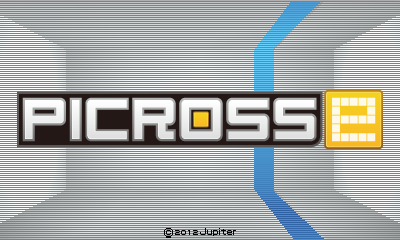
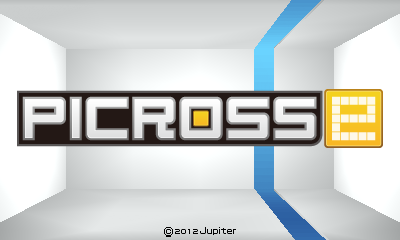
Update Cave Story 3D and Picross E screenshots after horizontal line fix

diff --git a/index.html b/index.html
@@ -74,8 +74,8 @@
     </div>
 
     <div id="imagebar">
-        <div><img src="resources/game-screenshots/cavestory-1.png" />
-            <p>Cave Story</p>
+        <div><img src="resources/game-screenshots/cavestory3d-1.png" />
+            <p>Cave Story 3D</p>
         </div>
         <div><img src="resources/game-screenshots/woahdave-1.png" />
             <p>Woah Dave!</p>
@@ -85,6 +85,9 @@
         </div>
         <div><img src="resources/game-screenshots/oracleages-1.png" />
             <p>The Legend of Zelda - Oracle of Ages</p>
+        </div>
+        <div><img src="resources/game-screenshots/cavestory3d-2.png" />
+            <p>Cave Story 3D</p>
         </div>
         <div><img src="resources/game-screenshots/shovelknight-1.png" />
             <p>Shovel Knight</p>
